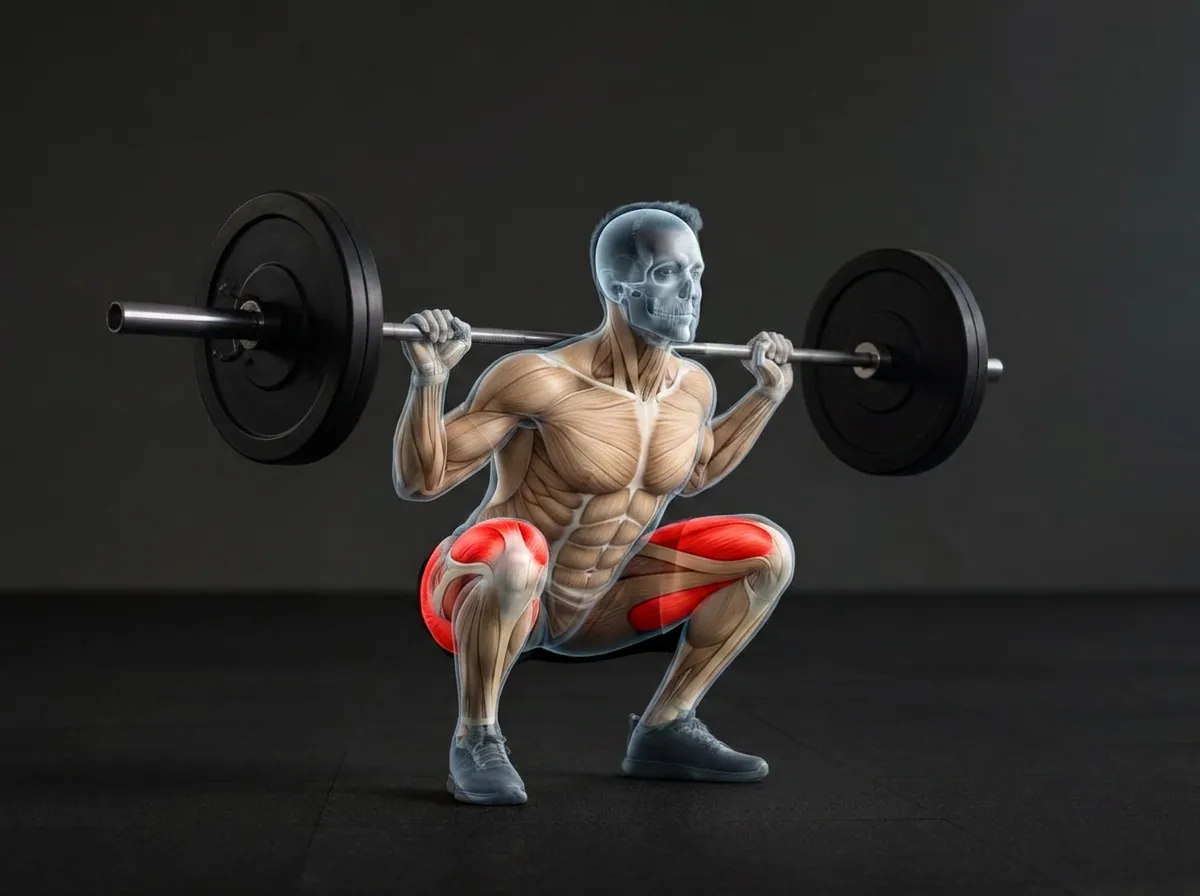
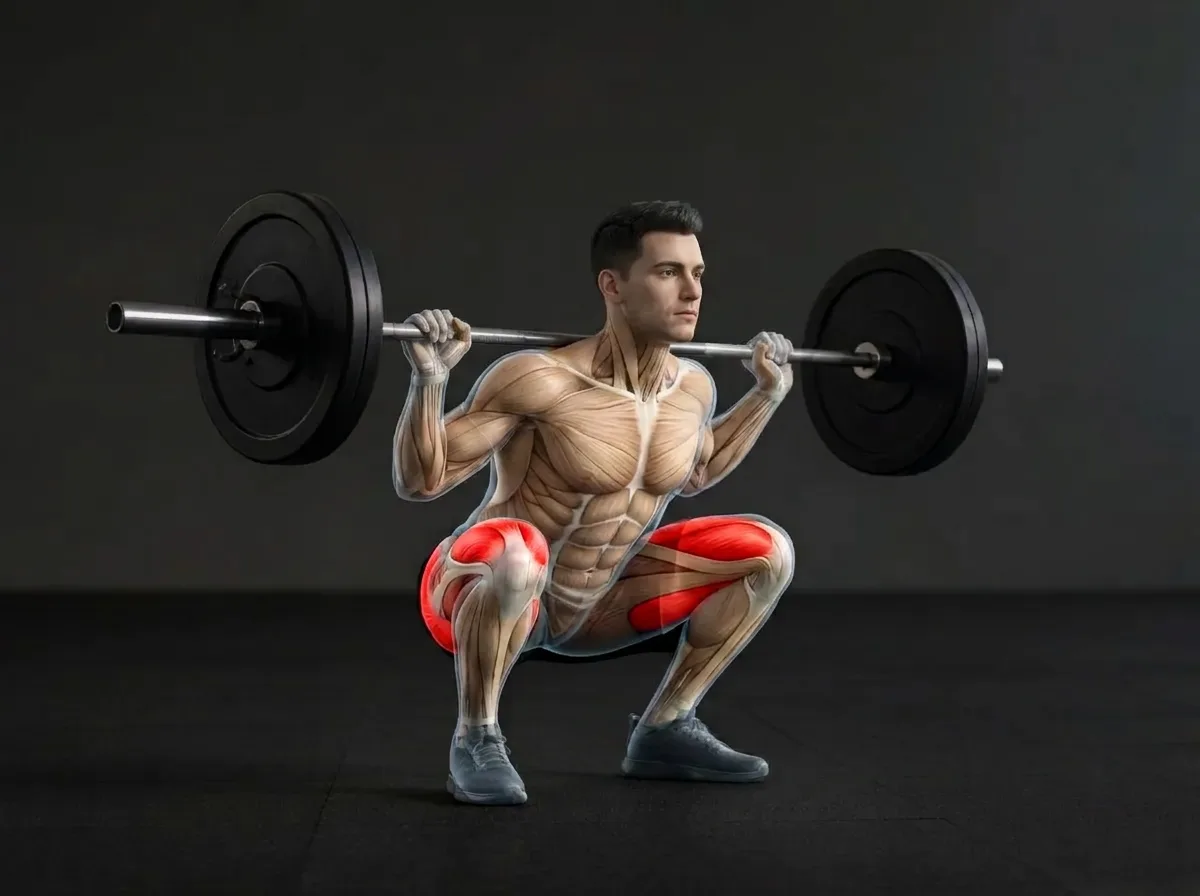
Imagens dos treinos: 8 mapas musculares novos e 3 rostos consertados
Avaliacao geral das imagens do sistema, com a regua do catalogo como
guia: as 97 fotos principais existem e nada declarado esta quebrado; a
fila real era de MAPA MUSCULAR (74 exercicios sem o par frente/costas
em public/anatomy/mm) e um defeito conhecido nas analises (cabeca de
caveira ou musculatura facial exposta).

MAPAS NOVOS (Lovable img2img sobre a mesma figura cinza aprovada,
azul-escuro = primario, azul-medio = sinergista, azul-claro =
estabilizador, matriz de musculos vinda do campo ativacao de cada
exercicio, conferencia visual imagem a imagem):
- flexao-de-braco (frente + costas)
- supino-halteres (frente + costas)
- supino-maquina (frente + costas)
- remada-maquina (frente + costas)
- elevacao-lateral-halteres (frente)
- agachamento-goblet (frente; a 1a tentativa pos a faixa do transverso
  na virilha e REPROVOU, refeita com a faixa na parede abdominal)
- agachamento-bulgaro (frente)
- subida-step (frente)
Fila de mapa muscular: 74 -> 66 exercicios.

ROSTOS CONSERTADOS nas analises (so a cabeca muda; corpo, equipamento,
musculos em vermelho e fundo intactos):
- agachamento-livre: caveira translucida -> cabeca humana com pele
- sentar-levantar: musculatura facial exposta -> idoso com pele normal
- flexao-de-braco: caveira detalhada -> silhueta lisa no estilo raio-x

REPROVADAS E DEVOLVIDAS A FILA (nao entram): as costas de bulgaro e
subida-step vazaram azul para a panturrilha, e no bulgaro a gradacao do
[…]

diff --git a/src/data/muscle-map-images.ts b/src/data/muscle-map-images.ts
@@ -32,6 +32,14 @@ export const muscleMapImages: Record<string, { front?: string; back?: string }> 
   "dead-bug": { front: "/anatomy/mm/dead-bug-front.webp" },
   "remada-elastica": { front: "/anatomy/mm/remada-elastica-front.webp", back: "/anatomy/mm/remada-elastica-back.webp" },
   "panturrilha-em-pe": { front: "/anatomy/mm/panturrilha-em-pe-front.webp", back: "/anatomy/mm/panturrilha-em-pe-back.webp" },
+  "flexao-de-braco": { front: "/anatomy/mm/flexao-de-braco-front.webp", back: "/anatomy/mm/flexao-de-braco-back.webp" },
+  "supino-halteres": { front: "/anatomy/mm/supino-halteres-front.webp", back: "/anatomy/mm/supino-halteres-back.webp" },
+  "supino-maquina": { front: "/anatomy/mm/supino-maquina-front.webp", back: "/anatomy/mm/supino-maquina-back.webp" },
+  "remada-maquina": { front: "/anatomy/mm/remada-maquina-front.webp", back: "/anatomy/mm/remada-maquina-back.webp" },
+  "elevacao-lateral-halteres": { front: "/anatomy/mm/elevacao-lateral-halteres-front.webp" },
+  "agachamento-goblet": { front: "/anatomy/mm/agachamento-goblet-front.webp" },
+  "agachamento-bulgaro": { front: "/anatomy/mm/agachamento-bulgaro-front.webp" },
+  "subida-step": { front: "/anatomy/mm/subida-step-front.webp" },
 };
 
 export function getMuscleMapImages(slug?: string) {
